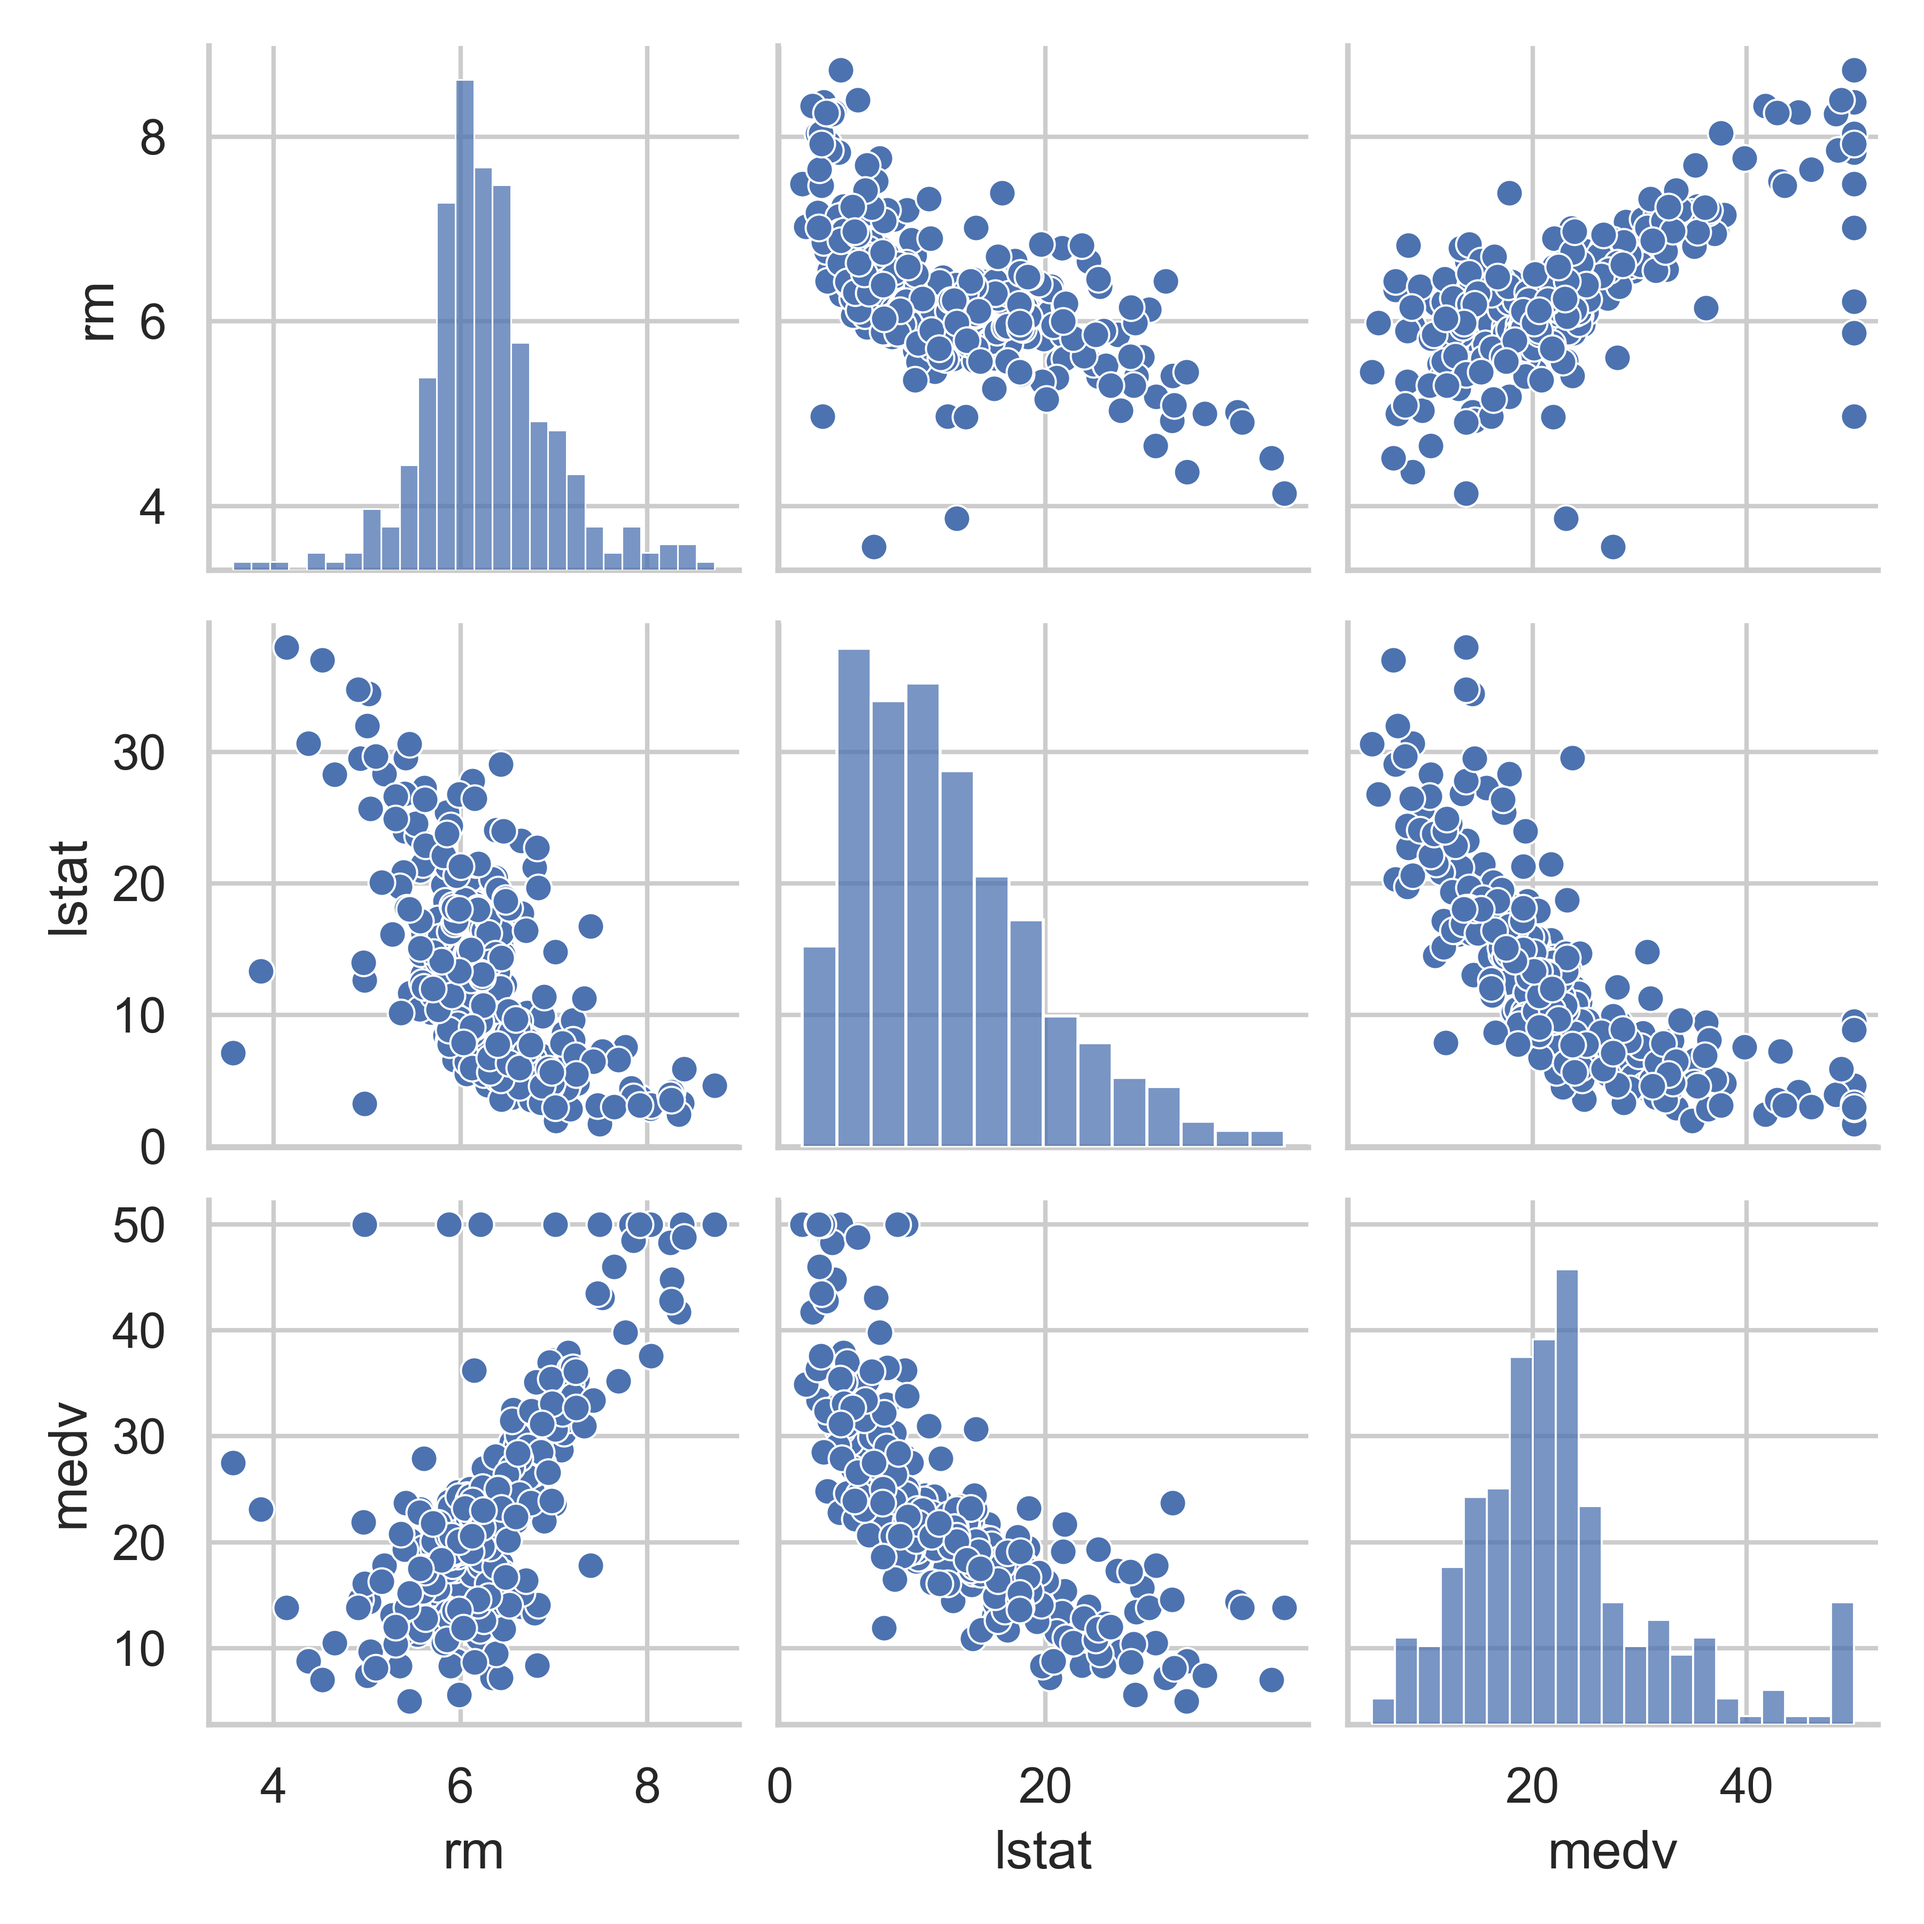
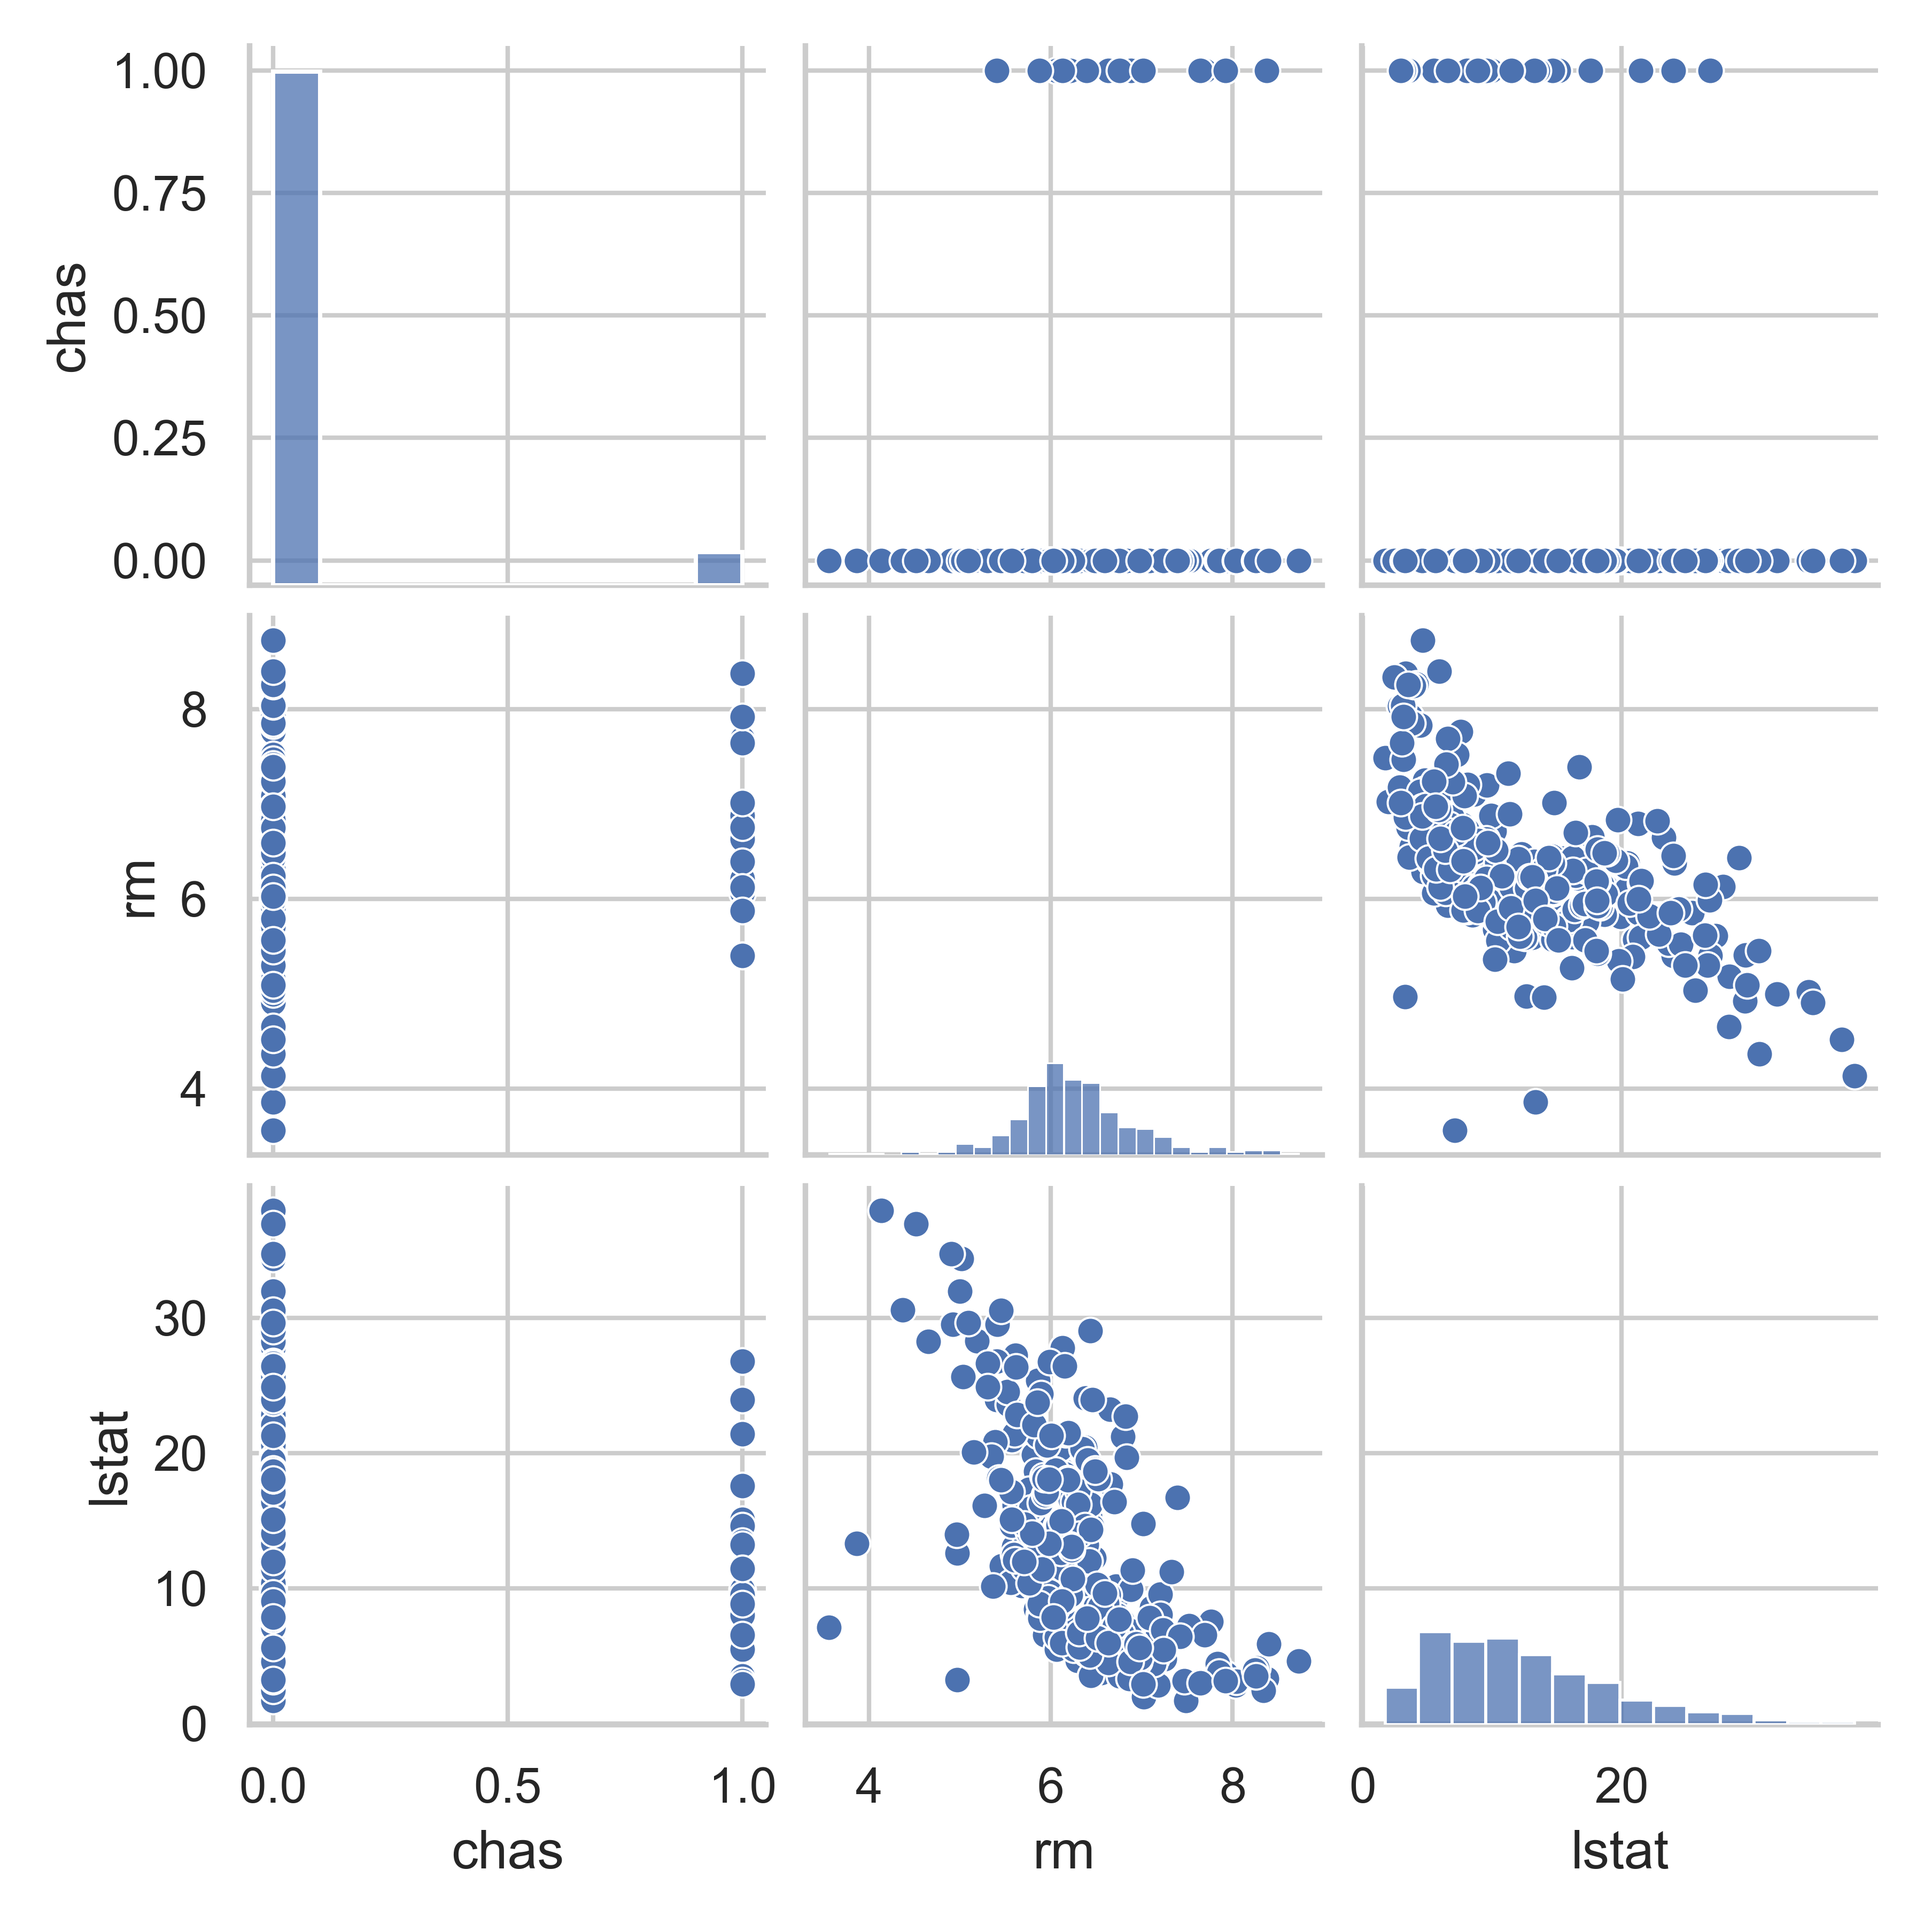
回归预测算法树模型完成

diff --git a/study/数学建模/机器学习/回归/极端梯度增强随机森林.py b/study/数学建模/机器学习/回归/极端梯度增强随机森林.py
@@ -1,0 +1,100 @@
+from lce import LCERegressor
+import pandas as pd
+from sklearn.model_selection import cross_val_score, cross_val_predict, train_test_split
+from sklearn.preprocessing import StandardScaler
+from sklearn.metrics import mean_squared_error, mean_absolute_error, r2_score
+import matplotlib.pyplot as plt
+import seaborn as sns
+import numpy as np
+import warnings
+warnings.filterwarnings("ignore")
+
+# ---------------- 数据读取 ----------------
+df = pd.read_csv("ID,crim,zn,indus,chas,nox,rm,age,di.csv",
+                 usecols=['lstat','rm','chas'])
+
+# 自变量
+X = df[['lstat','rm']].values
+# 因变量
+y = df['chas'].values
+
+# ---------------- 数据集切分 ----------------
+X_train, X_test, y_train, y_test = train_test_split(X, y, test_size=0.3, random_state=0)
+
+# ---------------- 标准化 ----------------
+scaler = StandardScaler()
+X_train = scaler.fit_transform(X_train)
+X_test = scaler.transform(X_test)
+
+# ---------------- 可视化 ----------------
+sns.set(style='whitegrid', context='notebook')
+sns.pairplot(df, height=2)
+plt.savefig('数据关系.png', dpi=600)
+plt.close()
+
+corr = df.corr()
+sns.heatmap(corr, cmap='GnBu_r', annot=True)
+plt.savefig('相关度热力图.png', dpi=600)
+plt.close()
+
+# ---------------- 初始化 LCERegressor ----------------
+lce_model = LCERegressor(
+    n_estimators=30,
+    bootstrap=True,
+    max_samples=0.8,
+    max_features="sqrt",
+    max_depth=3,
+    min_samples_leaf=1,
+    metric="neg_mean_squared_error",   # 回归指标
+    n_iter=20,
+    base_learner="xgboost",
+    base_n_estimators=(100, 300, 500),
+    base_max_depth=(3, 6, 9),
+    base_learning_rate=(0.1,),
+    base_gamma=(0, 1, 5),
+    base_min_child_weight=(1, 5, 10),
+    base_subsample=(0.7, 0.9, 1.0),
+    base_colsample_bytree=(0.7, 0.9, 1.0),
+    base_reg_alpha=(0,),
+    base_reg_lambda=(0.1, 1.0, 5.0),
+    base_booster=("gbtree",),
+    n_jobs=-1,
+    random_state=42,
+    verbose=1
+)
+
+# ---------------- 评估函数 ----------------
+def evaluate_regressor(model, X, y, w='', X_test=None):
+    if w == "预测":
+        # 用完整训练集训练模型预测新数据
+        y_pred = model.fit(X, y).predict(X_test)
+        print('-----------------------------预测-----------------------------')
+        print('LCERegressor预测结果:', [round(i,4) for i in y_pred])
+    if w == "训练":
+        n_folds = 5
+        # 交叉验证评分 (neg_mean_squared_error)
+        scores = cross_val_score(model, X, y, cv=n_folds, scoring='neg_mean_squared_error')
+        # 交叉验证预测结果
+        y_pred = cross_val_predict(model, X, y, cv=n_folds)
+        # 回归评估指标
+        mse = mean_squared_error(y, y_pred)
+        rmse = np.sqrt(mse)
+        mae = mean_absolute_error(y, y_pred)
+        r2 = r2_score(y, y_pred)
+        # 输出结果
+        df_score = pd.DataFrame([-scores], columns=[f'Fold{i+1}' for i in range(n_folds)])  # 取负号得到 MSE
+        df_metrics = pd.DataFrame([[round(mse,4), round(rmse,4), round(mae,4), round(r2,4)]],
+                                  columns=['MSE', 'RMSE', 'MAE', 'R²'])
+        print('-----------------------------训练-----------------------------')
+        print('交叉验证MSE:')
+        print(df_score)
+        print(f"Mean CV MSE: {(-scores).mean():.4f}")
+        print(f"Std CV MSE: {scores.std():.4f}")
+        print('性能评估指标:')
+        print(df_metrics)
+
+# ---------------- 使用 ----------------
+# 交叉验证训练
+evaluate_regressor(lce_model, X_train, y_train, w="训练")
+# 用训练好的模型预测测试集
+evaluate_regressor(lce_model, X_train, y_train, w="预测", X_test=X_test)
